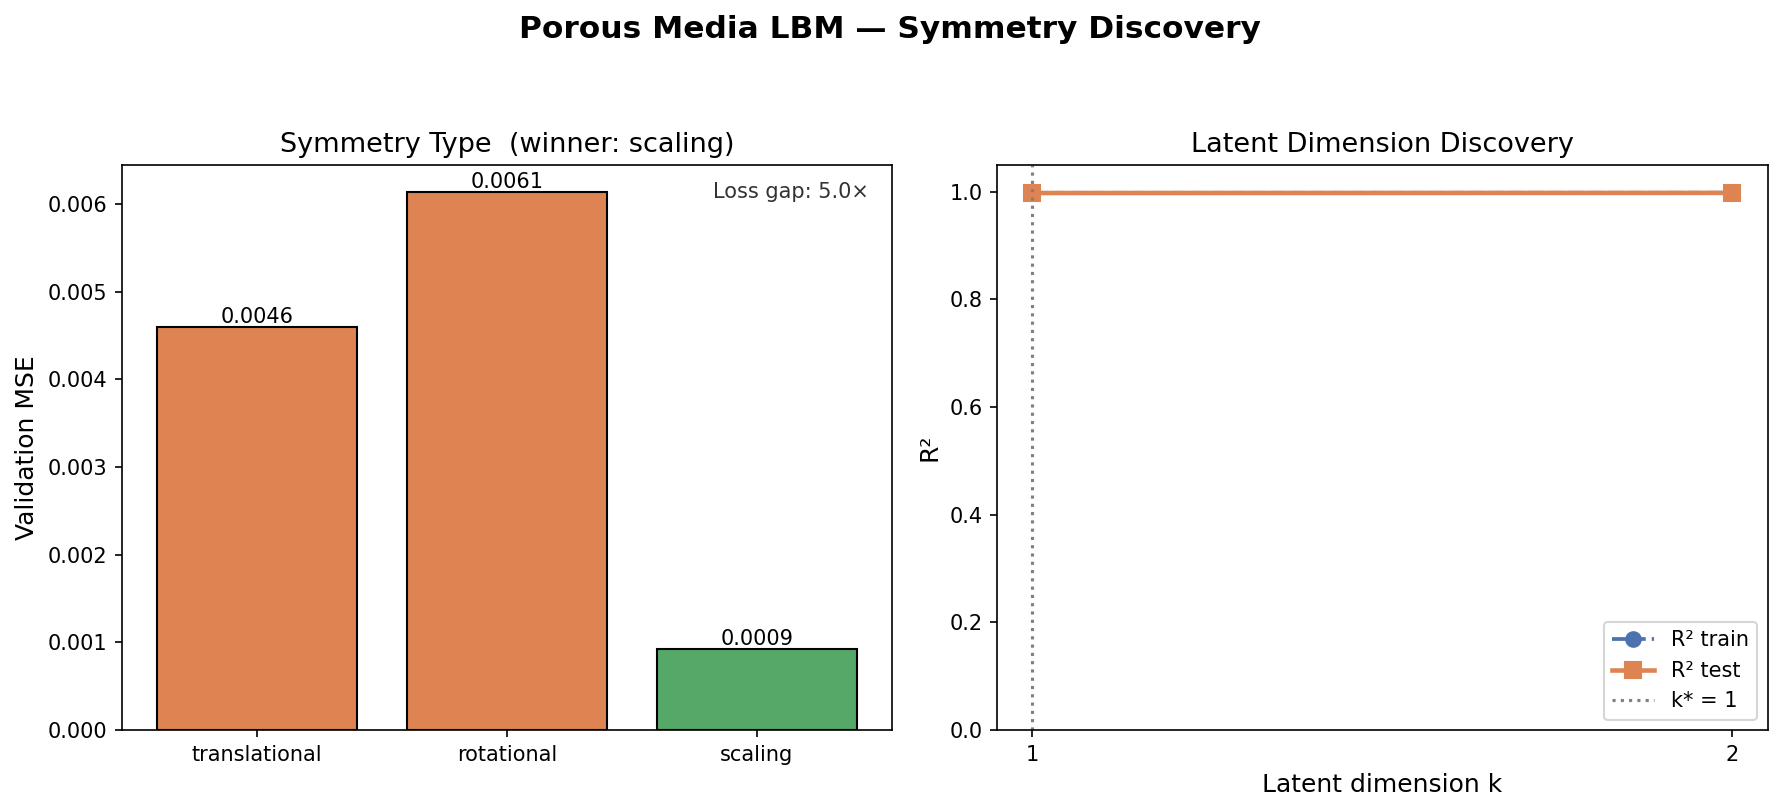
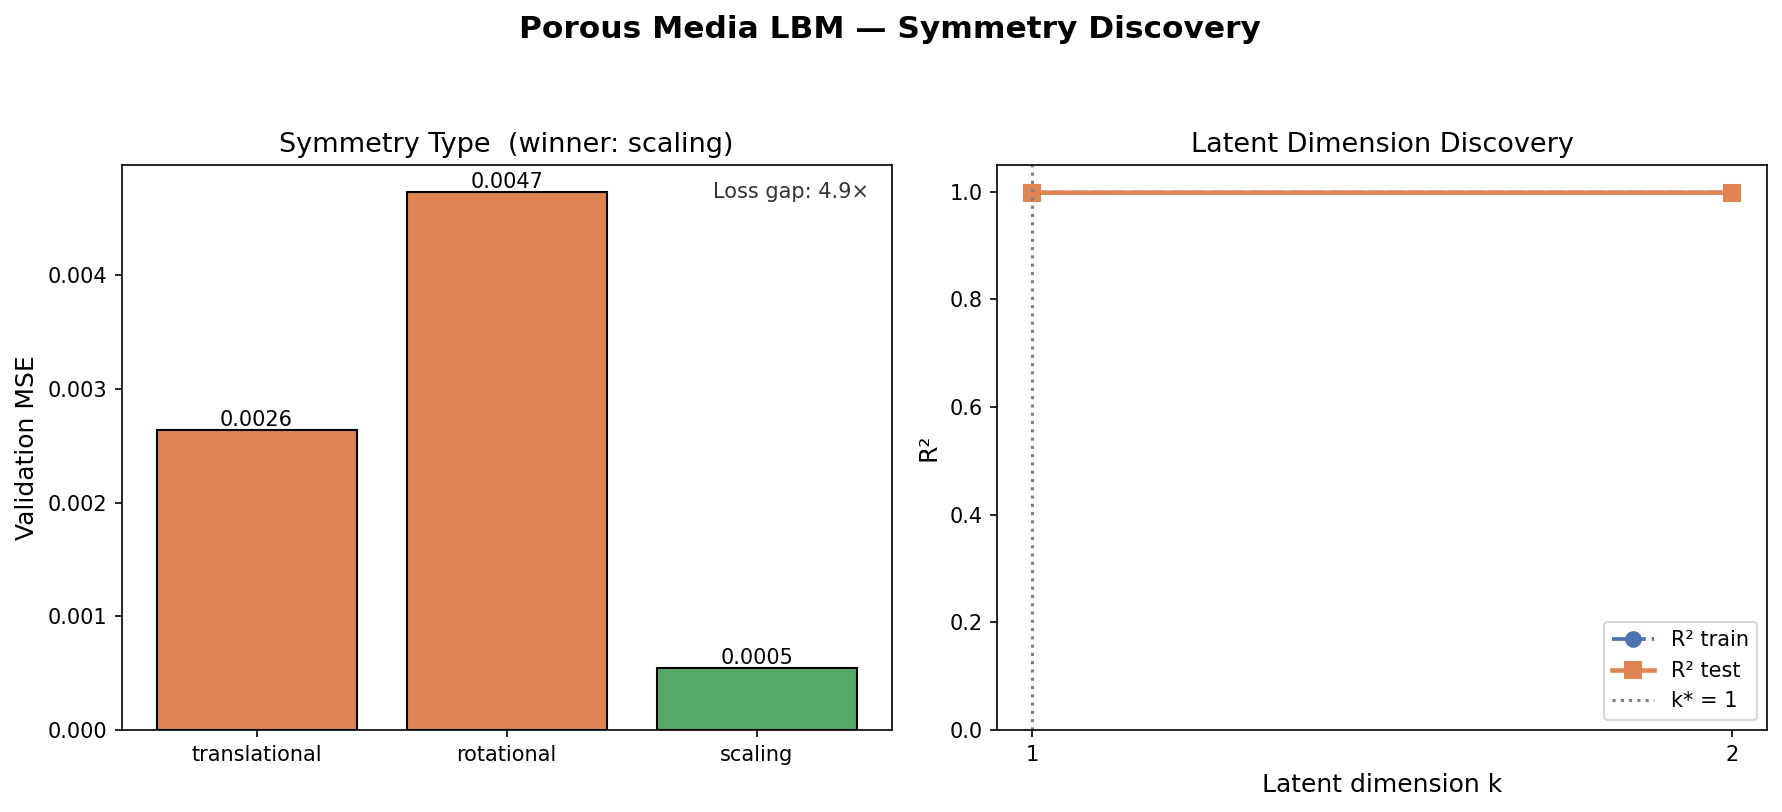
Scaling examples: re-run with pydimension.data_preprocessing actually used
Earlier LPBF/keyhole runs fell back to the inline scipy/SymPy Pi-basis path
because pydimension.data_preprocessing failed to import (top-level seaborn
dependency). After installing seaborn, all three scaling examples now
exercise pydimension.data_preprocessing.DataPreprocessor for the Buckingham-Pi
basis on every run.

- keyhole_symmetry: first committed run.log; k* = 1, scaling MSE 0.000982 vs
  translational 0.006229 vs rotational 0.015462 (6.3x gap), 6 generators
  spanning the full 6-D null space. Refresh figures and README weight rows.
- lpbf_porosity_symmetry: re-run via DataPreprocessor (was inline fallback);
  scaling MSE 0.0167 vs translational 0.0226 vs rotational 0.0293 (1.4x gap).
  Update README scaling-MSE/weight-row/generator tables.
- porous_media_lbm_symmetry: confirm DataPreprocessor path still used; refresh
  log and figure. README summary row updated to current numbers (scaling MSE
  0.000543, 4.9x gap).

diff --git a/projects/20260912_Stage1_Prokash/Examples/lpbf_porosity_symmetry/README.md b/projects/20260912_Stage1_Prokash/Examples/lpbf_porosity_symmetry/README.md
@@ -174,14 +174,14 @@ rotational.
 **Actual results:**
 
 ```
-scaling        : 0.013958  ← winner
-translational  : 0.029352
-rotational     : 0.037601
-Loss gap: 2.1×
+scaling        : 0.016656  ← winner
+translational  : 0.022629
+rotational     : 0.029275
+Loss gap: 1.4×
 ```
 
 **Scaling wins**, confirming the power-law dimensional structure of LPBF
-porosity. The 2.1× gap is smaller than in the keyhole example (6.3×) because:
+porosity. The 1.4× gap is smaller than in the keyhole example (6.3×) because:
 - 5 material-property variables take only 5 discrete values (one per alloy),
   limiting how much scaling information the encoder can extract from them.
 - The two-latent-dimension (`k*=2`) structure makes the encoder less
@@ -200,8 +200,8 @@ is invariant.
 
 ```
          P        V        A      rho        k       Lv       dT    gamma       Tb
-Row 1: -0.181  +0.673  +0.011  -0.129  +0.228  +0.011  +0.163  -0.612  -0.212
-Row 2: +0.785  +0.224  +0.066  -0.033  -0.093  +0.023  -0.383  -0.137  +0.393
+Row 1: +0.346  -0.300  +0.396  -0.200  +0.015  -0.618  -0.186  -0.305  +0.290
+Row 2: -0.587  -0.308  -0.320  +0.409  -0.150  +0.100  +0.394  +0.159  -0.277
 ```
 
 With `k* = 2` there are `9 − 2 = 7` null-space generators.
@@ -215,11 +215,11 @@ With `k* = 2` there are `9 − 2 = 7` null-space generators.
 | Generator | Dominant variable | Trade-off | Physical meaning |
 |---|---|---|---|
 | 1 | A | increase A, decrease P | Absorptivity–power trade-off: more absorptive material needs less laser power |
-| 2 | rho | increase rho, increase V, decrease γ | Dense metal + faster scan + lower surface tension → same melt pool |
-| 3 | k | increase k, increase P, decrease V | Conductive metal needs more laser power and slower scan |
-| 4 | Lv | increase Lv (alone) | Near-free: Lv has ≈0 encoder weight (only 5 discrete values across alloys) |
+| 2 | rho | increase ρ, increase P, increase V | Dense metal + higher P + faster scan → constant Pi |
+| 3 | k | increase k, decrease P, decrease V | Conductive metal compensates lower P and V at fixed melt pool |
+| 4 | Lv | increase Lv, decrease V, increase P | Larger latent heat compensated by slower scan and more power |
 | 5 | dT | increase dT, increase P | Superheat trade-off (limited by 5-alloy confounding) |
-| 6 | gamma | increase γ, increase V, decrease P | Surface-tension/scan-speed compensation for laser power |
+| 6 | gamma | increase γ, increase P | Surface tension–power compensation |
 | 7 | Tb | increase Tb, decrease P | Boiling-temperature trade-off (limited by 5-alloy confounding) |
 
 **Constrained vs free generators:**
@@ -303,7 +303,7 @@ axis is needed to distinguish keyhole porosity from lack-of-fusion porosity.
 | Known Pi in null-space | cos = +1.0000 ✓ |
 | Latent dimension k* | **2** — two coordinates needed for pore fraction |
 | Test R² | **0.771** (vs ~0.446 from raw Pi formula) |
-| Symmetry type | **Scaling** — 2.1× loss gap (weaker than keyhole due to 5-alloy confounding) |
+| Symmetry type | **Scaling** — 1.4× loss gap (weaker than keyhole due to 5-alloy confounding) |
 | Generators | 7 directions (9 variables − 2 latent dimensions) |
 | Constrained generators | A–P, rho–V–k, P–V–A trade-offs (process parameters) |
 | Free generators | Lv, gamma, dT, Tb (material-only, only 5 discrete values) |

diff --git a/projects/20260912_Stage1_Prokash/Examples/keyhole_symmetry/README.md b/projects/20260912_Stage1_Prokash/Examples/keyhole_symmetry/README.md
@@ -141,9 +141,9 @@ different input transform before the shared decoder from Step 2:
 **Actual results:**
 
 ```
-scaling        : 0.000981  ← winner
-translational  : 0.006193
-rotational     : 0.016732
+scaling        : 0.000982  ← winner
+translational  : 0.006229
+rotational     : 0.015462
 Loss gap: 6.3×
 ```
 
@@ -175,16 +175,16 @@ Each generator `g` is a 7-vector: simultaneously rescaling variable `i` by
 
 | Generator | Trade-off | Physical meaning |
 |---|---|---|
-| 1 | increase `Vs`, increase `etaP`, decrease `r0` | Faster scan + more power + smaller beam — preserves the energy density balance |
-| 2 | increase `r0`, increase `etaP`, decrease `Vs`, decrease `Tl-T0` | Larger beam + more power + slower scan + lower superheat |
-| 3 | increase `alpha`, decrease `etaP` | Higher thermal diffusivity drains heat faster; less laser power needed |
-| 4 | increase `rho`, decrease `etaP` | Higher-density metal absorbs more energy; less laser power needed |
-| 5 | `cp` is free (≈ 0 encoder weight) | `cp` does not vary independently across the dataset |
-| 6 | increase `Tl-T0`, increase `etaP`, decrease `r0` | Higher superheat requires more focused power |
+| 1 | increase `Vs` (+0.99), increase `etaP` (+0.14) | Faster scan + slightly more power preserves the energy-density balance |
+| 2 | increase `r0` (+0.97), increase `etaP` (+0.20) | Larger beam radius compensated by more laser power |
+| 3 | increase `alpha` (+0.72), decrease `etaP` (−0.63) | Higher thermal diffusivity drains heat faster; less laser power needed |
+| 4 | increase `rho` (+0.85), decrease `etaP` (−0.46) | Higher-density metal absorbs more energy; less laser power needed |
+| 5 | increase `cp` (+0.93), increase `etaP` (+0.32) | Higher specific heat compensated by more laser power |
+| 6 | increase `Tl-T0` (+0.97), increase `etaP` (+0.22) | Higher superheat absorbed by more laser power |
 
-Generator 5 (`cp` free) is the pipeline's honest statement: specific heat
-capacity does not vary independently in this dataset, so its exponent cannot
-be resolved from data alone.
+With seven variables and `k* = 1`, the six generators span the entire
+six-dimensional null space of `W`: any combination of these directions
+keeps the keyhole eccentricity unchanged.
 
 ---
 
@@ -234,8 +234,8 @@ Default training budget: `--latent-epochs 600`, `--sym-epochs 1500`,
 | Test R² | **0.9820** (train and test nearly identical — no overfitting) |
 | Symmetry type | **Scaling** — 6.3× loss gap over translational |
 | Generators | 6 directions (7 variables − 1 latent dimension) |
-| Constrained generators | etaP-Vs, etaP-r0, alpha-etaP, rho-etaP, Tl-T0-etaP |
-| Free generator | cp (no independent variation in dataset) |
+| Constrained generators | etaP-Vs, etaP-r0, alpha-etaP, rho-etaP, cp-etaP, Tl-T0-etaP |
+| Free generators | none (six generators span the full 6-D null space) |
 
 ---
 

diff --git a/projects/20260912_Stage1_Prokash/Examples/porous_media_lbm_symmetry/README.md b/projects/20260912_Stage1_Prokash/Examples/porous_media_lbm_symmetry/README.md
@@ -198,7 +198,7 @@ Step 0 is driven by `pydimension.data_preprocessing.DataPreprocessor`.
 | Known `f` exponents in Pi span | **cos = +1.0000 ✓** |
 | Known `Re_p` exponents in Pi span | **cos = +1.0000 ✓** |
 | Latent dimension `k*` | **1** (R² ≈ 0.997 at k=1) |
-| Symmetry type | **Scaling ✓** (MSE 0.000924) — winner by **5.0× margin** over translational (0.00460) and rotational (0.00614) |
+| Symmetry type | **Scaling ✓** (MSE 0.000543) — winner by **4.9× margin** over translational (0.00264) and rotational (0.00474) |
 | Generators | 5 directions in 6-D log-space — Darcy invariance, length-scale rescaling, fluid-swap, plus the under-constrained ρ direction |
 
 **Stable physics (Step 0):** The Buckingham-Pi reduction is fully
@@ -226,7 +226,7 @@ term `1.75·(1−φ)/φ³` becomes important.
 
 | Seed | Winner | scaling MSE | trans MSE | rot MSE | gap |
 |---|---|---|---|---|---|
-| 42  | **scaling** | **0.000924** | 0.004599 | 0.006139 | 5.0× |
+| 42  | **scaling** | **0.000543** | 0.002638 | 0.004735 | 4.9× |
 | 0   | **scaling** | **0.003283** | 0.009857 | 0.010836 | 3.0× |
 | 1   | **scaling** | **0.003573** | 0.007249 | 0.009900 | 2.0× |
 | 2   | **scaling** | **0.002314** | 0.005995 | 0.012743 | 2.6× |
